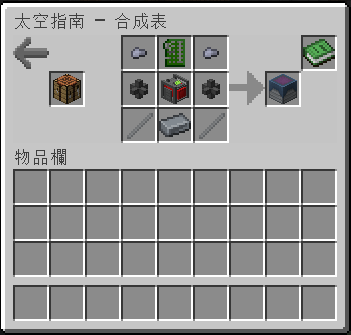
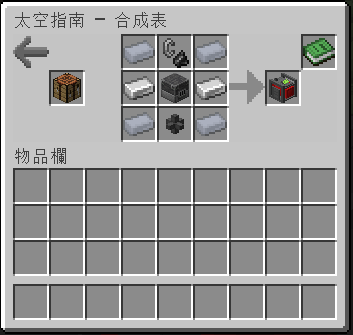
GitBook: [#87] No subject

Changed region(s): [[0.0, 0.0, 1.0, 1.0], [0.114, 0.209, 0.2564, 0.3284], [0.0285, 0.1194, 0.1425, 0.209]]

diff --git a/item/Coal-Generator.md b/item/Coal-Generator.md
@@ -1,6 +1,6 @@
 # 燃煤發電機
 
-![](<../.gitbook/assets/image (24).png>)
+![](<../.gitbook/assets/image (224).png>)
 
 燃煤發電機是一種[發電機器](../space/energy-systems.md)，可用於從煤炭和木炭中產生能量。
 
@@ -10,26 +10,22 @@
 
 煤炭發電機可以使用以下物品製作：
 
-![](<../.gitbook/assets/image (200).png>)
+![](<../.gitbook/assets/image (215).png>)
 
 * 4 [鈦錠](titanium-ingot.md)
 * 2 鐵錠
 * 1 打火石
-* 1 [電線](Wire.md)
+* 1 [導管](Conduit.md)
 * 1 高爐
 
 ## 用法
 
 ### 啟動
 
-煤炭發電機可以用煤炭或木炭作為燃料。每個將產生 1000 單位的能量。煤炭塊不能用作燃料。
+燃煤發電機可以用煤炭或木炭作為燃料。每個將產生 300 單位的能量。煤炭磚不能用作燃料。
 
-一台燃煤發電機可以儲存多達 8000 單位的能量。
-
-### 箱子
-
-如果將箱子放置在燃煤發電機旁邊，燃煤發電機會從中吸取煤炭和木炭。這可使燃煤發電機自動啟動。
+一台燃煤發電機可以儲存多達 12000 單位的能量。
 
 ### 效果
 
-如果通過[電線](Wire.md)連接到通電的機器，燃煤發電機將向其傳輸能量。
+如果通過[導管](Conduit.md)連接到通電的機器，燃煤發電機將向其傳輸能量。

diff --git a/SUMMARY.md b/SUMMARY.md
@@ -22,13 +22,13 @@
   * [太陽能板](item/Solar-Panel.md)
   * [先進的太陽能板](item/Advanced-Solar-Panel.md)
   * [氧氣製造機](item/Tank-Refiller.md)
+  * [燃煤發電機](item/Coal-Generator.md)
 
 ## 舊版特殊物品 <a href="#item" id="item"></a>
 
 * [電線](item/Wire.md)
 * [管線](item/Pipe.md)
 * [板手](item/Wrench.md)
-* [燃煤發電機](item/Coal-Generator.md)
 * [核反應推](item/Nuclear-Reactor.md)
 * [亞德曼合金劍　強化裝置](item/Sword-Editor.md)
 * [模組化工作臺](item/Modular-Workbench.md)

diff --git a/item/Wireless-Charging-Station.md b/item/Wireless-Charging-Station.md
@@ -16,7 +16,7 @@
 
 可以使用以下物品製作無線充電站：
 
-![](<../.gitbook/assets/image (215).png>)
+![](<../.gitbook/assets/image (215) (1).png>)
 
 * 1 [燃煤發電機](Coal-Generator.md)
 * 1 [鋁合金錠](aluminium-alloy-ingot.md)
